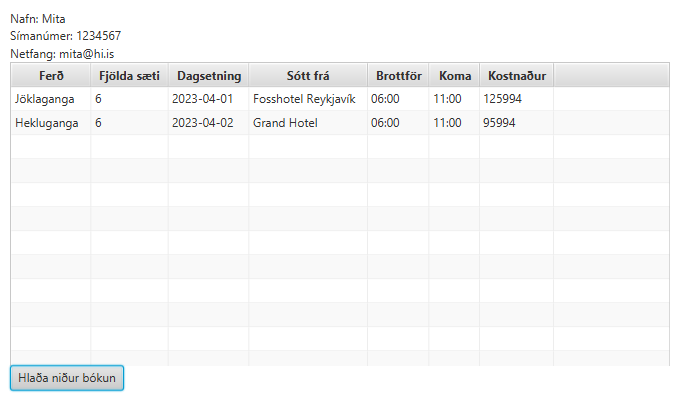
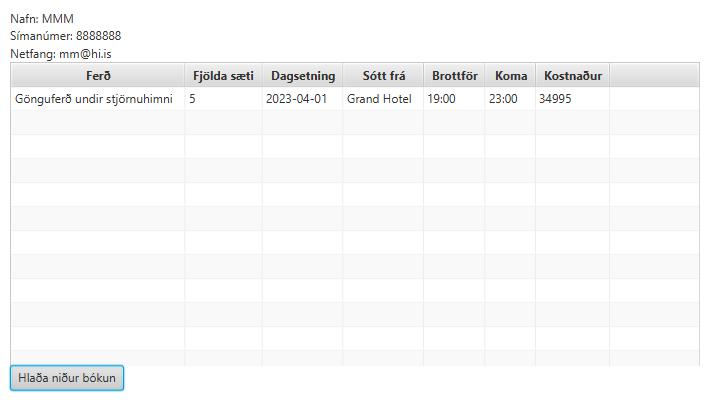
display receipt of booking after confirming booking

diff --git a/src/sample/Vidmot/BookingController.java b/src/sample/Vidmot/BookingController.java
@@ -14,14 +14,19 @@ import javafx.event.ActionEvent;
 import javafx.event.EventHandler;
 import javafx.fxml.FXML;
 import javafx.fxml.Initializable;
+import javafx.scene.Group;
 import javafx.scene.Node;
+import javafx.scene.Scene;
 import javafx.scene.SnapshotParameters;
 import javafx.scene.control.*;
 import javafx.scene.control.cell.PropertyValueFactory;
+import javafx.scene.image.Image;
+import javafx.scene.image.ImageView;
 import javafx.scene.image.WritableImage;
 import javafx.scene.input.KeyEvent;
 import javafx.scene.layout.AnchorPane;
 import javafx.scene.layout.VBox;
+import javafx.stage.Stage;
 import sample.Vinnsla.Booking;
 import sample.Vinnsla.Customer;
 import sample.Vinnsla.DatabaseManager;
@@ -30,6 +35,8 @@ import sample.Vinnsla.Daytrip;
 import javax.imageio.ImageIO;
 import java.awt.print.Book;
 import java.io.File;
+import java.io.FileInputStream;
+import java.io.FileNotFoundException;
 import java.io.IOException;
 import java.net.URL;
 import java.sql.SQLException;
@@ -170,6 +177,22 @@ public class BookingController implements Initializable {
                 } catch (IOException e) {
                     e.printStackTrace();
                 }
+                FileInputStream inputstream = null;
+                try {
+                    inputstream = new FileInputStream("bookings.png");
+                } catch (FileNotFoundException e) {
+                    e.printStackTrace();
+                }
+                Image receipt = new Image(inputstream);
+                ImageView imageView = new ImageView(receipt);
+
+                imageView.setPreserveRatio(true);
+                Group root = new Group(imageView);
+                Scene scene = new Scene(root, imageView.getFitWidth(), imageView.getFitHeight());
+                Stage stage = new Stage();
+                stage.setTitle("Kvittun");
+                stage.setScene(scene);
+                stage.show();
             }
         });
         mainVBox.getChildren().addAll(name, phone, email, tv, downloadButton);

diff --git a/src/sample/Vidmot/Controller.java b/src/sample/Vidmot/Controller.java
@@ -1,23 +1,16 @@
 package sample.Vidmot;
 
-import javafx.beans.value.ChangeListener;
-import javafx.beans.value.ObservableValue;
 import javafx.collections.FXCollections;
 import javafx.collections.ObservableList;
-import javafx.collections.transformation.SortedList;
 import javafx.event.ActionEvent;
-import javafx.event.EventHandler;
 import javafx.fxml.FXML;
 import javafx.fxml.FXMLLoader;
 import javafx.fxml.Initializable;
 import javafx.geometry.Insets;
-import javafx.geometry.Pos;
-import javafx.scene.Node;
 import javafx.scene.Parent;
 import javafx.scene.Scene;
 import javafx.scene.control.*;
 import javafx.scene.input.MouseEvent;
-import javafx.scene.layout.HBox;
 import javafx.scene.layout.VBox;
 import javafx.stage.Stage;
 import sample.Vinnsla.DatabaseManager;
@@ -25,7 +18,6 @@ import sample.Vinnsla.Daytrip;
 import sample.Vinnsla.DaytripListCell;
 import java.io.File;
 import java.io.IOException;
-import java.net.MalformedURLException;
 import java.net.URL;
 import java.sql.SQLException;
 import java.time.LocalDate;
@@ -137,6 +129,7 @@ public class Controller extends DaytripController implements Initializable {
         } catch (SQLException | ClassNotFoundException e) {
             e.printStackTrace();
         }
+        locationList.add("Allir landshlutar");
         locationPicker.getItems().removeAll(locationPicker.getItems());
         locationPicker.getItems().addAll(locationList);
     }
@@ -303,7 +296,7 @@ public class Controller extends DaytripController implements Initializable {
         bookingController.setController(this);
         Stage stage = new Stage();
         stage.setTitle("Bóka ferðir");
-        stage.setScene(new Scene(root, 680, 400));
+        stage.setScene(new Scene(root, 710, 400));
         stage.show();
     }
 

diff --git a/src/sample/Vinnsla/DatabaseManager.java b/src/sample/Vinnsla/DatabaseManager.java
@@ -161,7 +161,7 @@ public class DatabaseManager implements IDatabaseManager{
         String dateQuery = "";
         if(day != null) dateQuery = " AND date_trip = '"+day+"'";
         String locationQuery = "";
-        if(location != null) locationQuery = " AND location_name = '"+location+"'";
+        if(location != null && !location.equals("Allir landshlutar")) locationQuery = " AND location_name = '"+location+"'";
         String timeQuery = "";
         if (departure != null) timeQuery = " AND start_time "+time;
         String query = "SELECT * FROM Daytrip, Review WHERE available_seats>0 AND title = daytrip_title"+dateQuery+locationQuery+timeQuery;
